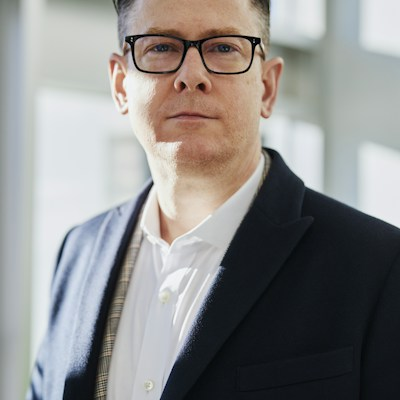
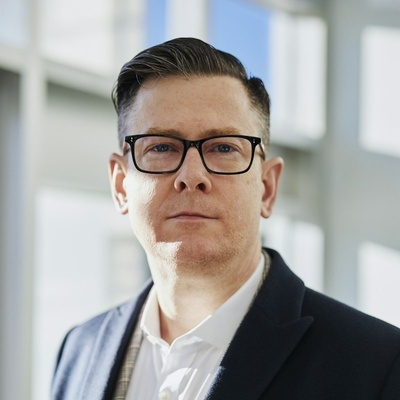
Fix facial portrait framing and viewport aspect ratio

diff --git a/station-3-ghost-in-the-lens/static/css/style.css b/station-3-ghost-in-the-lens/static/css/style.css
@@ -153,7 +153,7 @@ html, body {
 }
 
 .camera-viewport-frame {
-  position: relative; width: 100%; aspect-ratio: 1 / 1; max-height: 270px;
+  position: relative; width: 100%; max-width: 270px; aspect-ratio: 1 / 1; max-height: 270px;
   margin: 0 auto; background: #07090E; border-radius: 12px;
   overflow: hidden; border: 1px solid rgba(0,240,255,0.25);
   box-shadow: 0 0 25px rgba(0,240,255,0.1), inset 0 0 20px rgba(0,0,0,0.8);
@@ -185,11 +185,11 @@ html, body {
   margin-top: 2px;
 }
 .subject-image {
-  width: 100%; height: 100%; object-fit: cover;
+  width: 100%; height: 100%; object-fit: cover; object-position: center 20%;
   transition: filter 0.15s ease;
 }
 .subject-video {
-  width: 100%; height: 100%; object-fit: cover;
+  width: 100%; height: 100%; object-fit: cover; object-position: center center;
   transform: scaleX(-1);
 }
 .webcam-controls-row {
